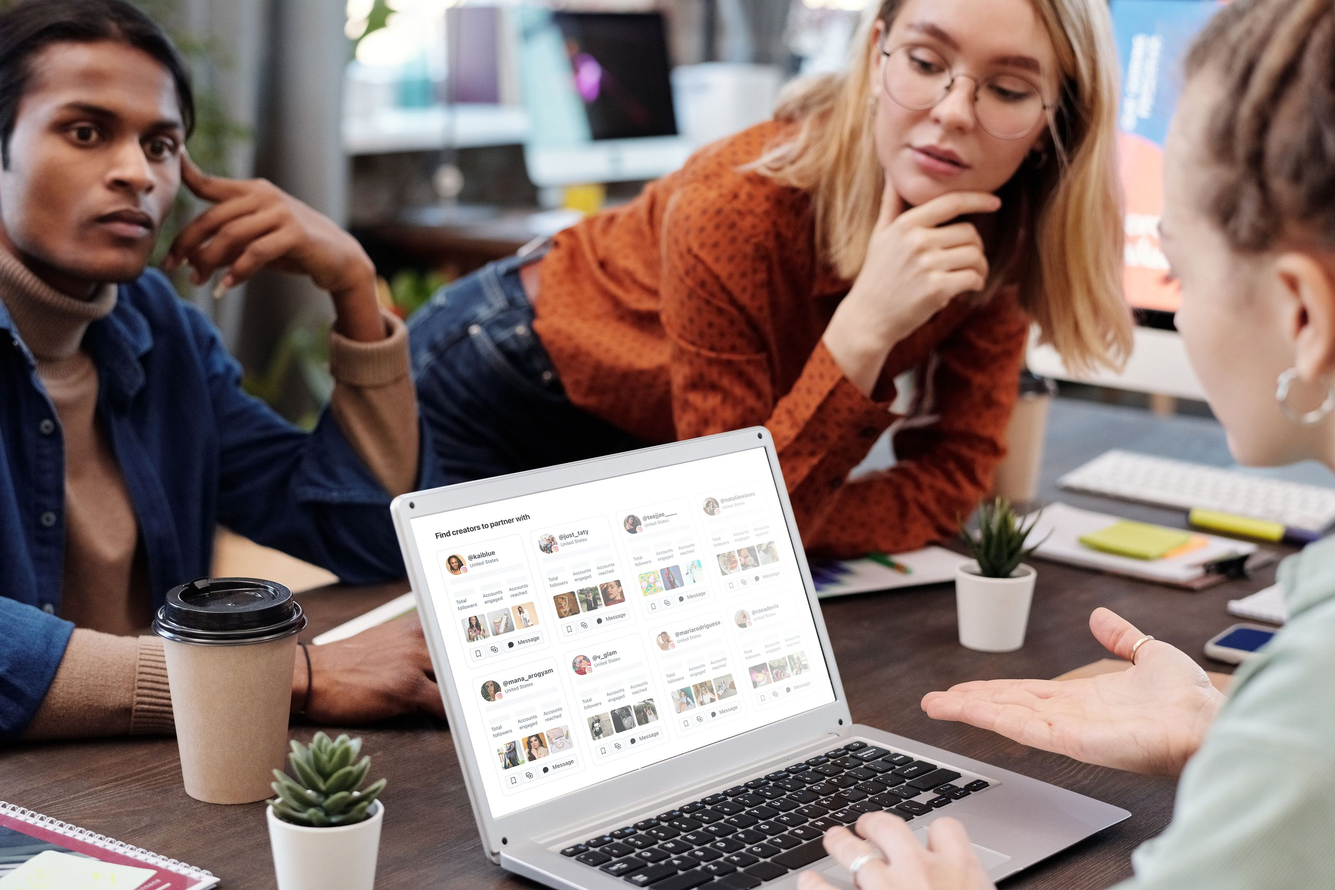
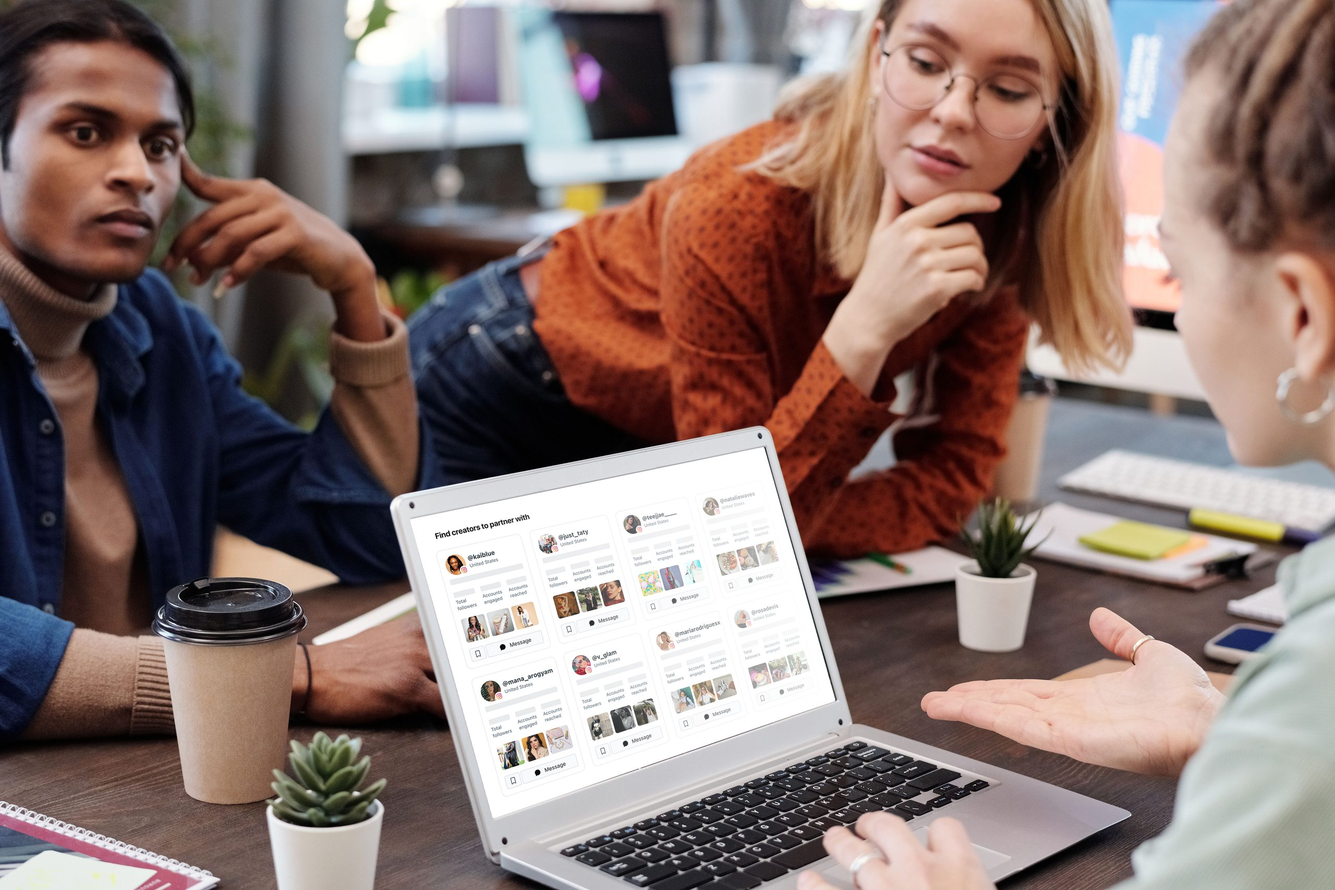
Creator Portfolio: rework Craft, gradient accents, section polish
- Rebuild Craft as a left-aligned list (no numbers; titles use the
  Instagram gradient orange/pink/purple), detailing auto-populated
  content, the reused Guides pattern, and the creator-led onboarding
  format. First two figures fill the container width; link Guides out.
- Apply the bright Instagram gradient to the Hypothesis highlight and
  switch the flywheel brand nodes from cyan to purple for consistency.
- Darken the charcoal theme to #141414; lighten the Approach sky scrim;
  raise the Hypothesis frosted opacity; new compressed challenge photo;
  matched phone corner radii with soft shadows.

diff --git a/case-study-creator-portfolio.html b/case-study-creator-portfolio.html
@@ -135,7 +135,7 @@
                 </filter>
                 <!-- Blue inner glow for the brand nodes (from Figma). -->
                 <filter id="cp-fw-brand-glow" x="-50%" y="-50%" width="200%" height="200%" color-interpolation-filters="sRGB">
-                  <feFlood flood-color="#4fdbf7" result="c"/>
+                  <feFlood flood-color="#b026ff" result="c"/>
                   <feComposite in="c" in2="SourceAlpha" operator="out" result="inv"/>
                   <feGaussianBlur in="inv" stdDeviation="16" result="g"/>
                   <feComposite in="g" in2="SourceAlpha" operator="in" result="ig"/>
@@ -241,25 +241,40 @@
       <div class="container cs-container">
         <div class="cs-section-header">
           <span class="cs-section-label">Craft</span>
-          <h2 class="cs-section-title">Two levers for adoption: onboarding and discovery.</h2>
+          <h2 class="cs-section-title">Reuse familiar patterns; invent only where it pays off.</h2>
         </div>
         <div class="cs-body">
-          <p>For the portfolio to take off, creators had to build one &mdash; and find it in the first place. I focused on two levers: onboarding and discoverability.</p>
+          <p>For less-experienced creators, every extra decision is friction. So I pre-filled the parts that intimidate people and built the rest on patterns creators already knew &mdash; reserving a brand-new pattern for the one place the familiar one fell flat.</p>
         </div>
-        <div class="cs-reflections">
-          <div class="cs-reflection">
-            <h3>Onboard with a creator, not bullet points</h3>
-            <p>Instead of a bullet-point screen, a NUX video of a real creator showing the value &mdash; not listing it.</p>
+
+        <div class="cp-craft-list">
+          <div class="cp-craft-item">
+            <div class="cp-craft-text">              <h3>The template fills itself in</h3>
+              <p>Each portfolio opens pre-populated with the creator&rsquo;s best content and audience data &mdash; top posts and Highlights, selected reels and stories, reach and engagement insights, past brand partnerships, even audience demographics &mdash; pulled straight from their account. Instead of a blank page, a less-experienced creator starts from a credible draft they only need to edit.</p>
+            </div>
+            <figure class="cp-craft-figure cp-craft-figure--card">
+              <img src="img/Instagram Creator Portfolio/Auto populated content.jpg" alt="Auto-populated portfolio sections: highlights, selected content, insights, brand partnerships and audience demographics" loading="lazy">
+            </figure>
           </div>
-          <div class="cs-reflection">
-            <h3>Multiple entry points</h3>
-            <p>Multiple entry points across Instagram, so creators could start a portfolio wherever they already were.</p>
+
+          <div class="cp-craft-item">
+            <div class="cp-craft-text">              <h3>Built on Guides, not a new builder</h3>
+              <p>I reused Instagram&rsquo;s existing <a class="cs-inline-link" href="https://about.instagram.com/blog/announcements/supporting-well-being-with-instagram-guides" target="_blank" rel="noopener noreferrer">Guides</a> pattern &mdash; curate a post, add a short description, arrange the sequence &mdash; so the portfolio builder felt native from day one and shipped without asking creators to learn anything new.</p>
+            </div>
+            <figure class="cp-craft-figure cp-craft-figure--card">
+              <img src="img/Instagram Creator Portfolio/Instagram Guides.jpg" alt="Instagram Guides and Creator Portfolio side by side, showing the shared builder pattern" loading="lazy">
+            </figure>
+          </div>
+
+          <div class="cp-craft-item">
+            <div class="cp-craft-text">              <h3>A new onboarding format, earned</h3>
+              <p>The intro was the exception. A bullet-point explainer felt flat, so I replaced it with a short video of a real creator walking through how they built their portfolio. It tested more engaging &mdash; and the Subscriptions team later adopted the same format for their own launches.</p>
+            </div>
+            <figure class="cp-craft-figure cp-craft-figure--mid">
+              <img src="img/Instagram Creator Portfolio/Creator Portfolio NUX.png" alt="Creator-led onboarding video replacing a bullet-point screen" loading="lazy">
+            </figure>
           </div>
         </div>
-        <div class="cp-phone">
-          <video src="img/Instagram Creator Portfolio/How to create creator portfolio.mp4" autoplay muted loop playsinline aria-label="Creator Portfolio onboarding NUX video featuring a creator"></video>
-        </div>
-        <p class="cs-image-caption">The onboarding NUX &mdash; a creator explaining the value of Creator Portfolio, in place of a bullet-point screen.</p>
       </div>
     </section>
 

diff --git a/css/case-study.css b/css/case-study.css
@@ -709,11 +709,11 @@
 /* Dark background for the Strategy, Solution, and footer on the Creator
    Portfolio page (overrides the shared dark-section navy). */
 .cp-blue-bg {
-  background: #1e1e1e;
+  background: #141414;
 }
 
 .cs-page--creator-portfolio .site-footer {
-  background: #1e1e1e;
+  background: #141414;
 }
 
 /* Blue-themed section labels — deep blue on light sections, light sky-blue on
@@ -754,7 +754,7 @@
   justify-content: center;
   /* Subtle frosted glass — a mostly-opaque white tint over a light
      backdrop-blur, so the layer beneath shows through only faintly. */
-  background: rgba(255, 255, 255, 0.75);
+  background: rgba(255, 255, 255, 0.85);
   -webkit-backdrop-filter: blur(24px);
   backdrop-filter: blur(24px);
 }
@@ -829,7 +829,7 @@
 
 /* Instagram gradient text (clipped to the glyphs), left-to-right sweep. */
 .ig-gradient-text {
-  background: linear-gradient(to right, #f58529 0%, #dd2a7b 50%, #8134af 100%);
+  background: linear-gradient(to right, #ff7a00 0%, #ff0d6d 50%, #b026ff 100%);
   -webkit-background-clip: text;
   background-clip: text;
   -webkit-text-fill-color: transparent;
@@ -1685,7 +1685,7 @@
   content: "";
   position: absolute;
   inset: 0;
-  background: rgba(255, 255, 255, 0.4);
+  background: rgba(255, 255, 255, 0.7);
   z-index: 0;
 }
 
@@ -1711,6 +1711,7 @@
   object-fit: cover;
   object-position: top center;
   border-radius: 24px 24px 0 0;
+  box-shadow: 0 12px 50px rgba(0, 0, 0, 0.22);
 }
 
 /* Approach 03 — larger image */
@@ -1739,10 +1740,73 @@
   border-radius: 24px;
 }
 
+/* Creator Portfolio — Craft as a stacked list: text, then image below */
+.cp-craft-list {
+  max-width: 100%;
+  margin: var(--space-3xl) 0 0;
+  display: flex;
+  flex-direction: column;
+  gap: var(--space-4xl);
+}
+
+.cp-craft-text {
+  max-width: 660px;
+}
+
+.cp-craft-text h3 {
+  font-family: var(--font-body);
+  font-size: var(--text-xl);
+  font-weight: 600;
+  color: #1a1a2e;
+  margin-bottom: var(--space-xs);
+}
+
+/* Each craft point gets its own title color from the Instagram gradient */
+.cp-craft-item:nth-child(1) .cp-craft-text h3 {
+  color: #ff7a00;
+}
+.cp-craft-item:nth-child(2) .cp-craft-text h3 {
+  color: #ff0d6d;
+}
+.cp-craft-item:nth-child(3) .cp-craft-text h3 {
+  color: #b026ff;
+}
+
+.cp-craft-text p {
+  font-size: var(--text-base);
+  line-height: 1.7;
+  color: #4b5563;
+}
+
+.cp-craft-figure {
+  margin: var(--space-xl) 0 0;
+}
+
+.cp-craft-figure img {
+  width: 100%;
+  display: block;
+  border-radius: 20px;
+}
+
+/* Opaque composition — framed as a card */
+.cp-craft-figure--card {
+  max-width: 100%;
+  border-radius: 20px;
+}
+
+/* Transparent floating mockups — no frame */
+.cp-craft-figure--phone {
+  max-width: 300px;
+}
+
+.cp-craft-figure--mid {
+  max-width: 720px;
+}
+
 /* Creator Portfolio — landscape figure, capped */
 .cp-figure {
   max-width: 920px;
-  margin: var(--space-2xl) auto 0;
+  margin: var(--space-3xl) auto 0;
 }
 
 .cp-figure img {
@@ -1820,14 +1884,14 @@
 }
 
 .cp-fw-node--creator rect {
-  fill: #1e1e1e;
+  fill: #141414;
   stroke: none;
   rx: 32px;
   filter: url(#cp-fw-creator-glow);
 }
 
 .cp-fw-node--brand rect {
-  fill: #1e1e1e;
+  fill: #141414;
   stroke: none;
   rx: 32px;
   filter: url(#cp-fw-brand-glow);
@@ -1943,7 +2007,7 @@
 }
 
 .cp-fw-key--creator::before { background: #fd046e; }
-.cp-fw-key--brand::before { background: #4fdbf7; }
+.cp-fw-key--brand::before { background: #b026ff; }
 
 @media (prefers-reduced-motion: reduce) {
   .cp-fw-node,
